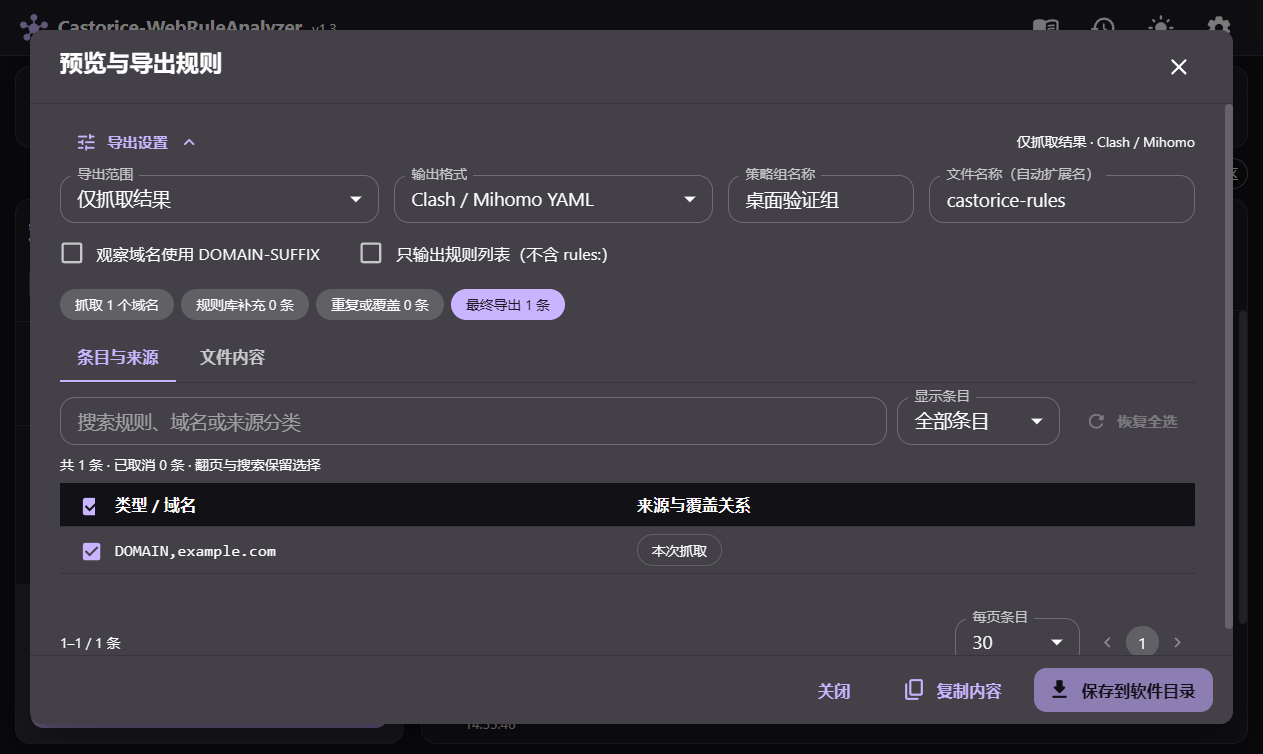
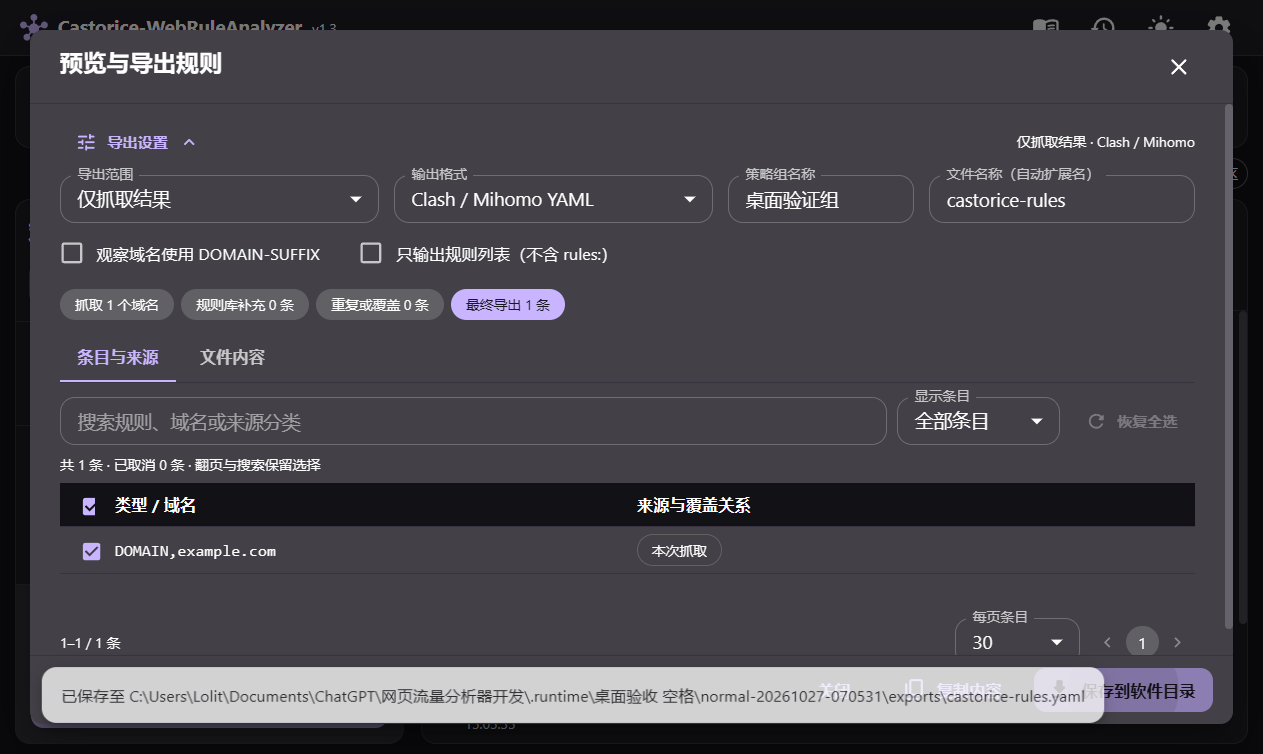
fix: reset filters in an already empty workspace

Changed region(s): [[0.0309, 0.8846, 0.8955, 0.9761]]

diff --git a/frontend/src/pages/App.tsx b/frontend/src/pages/App.tsx
@@ -19,6 +19,7 @@ export default function App() {
     const [options, setOptions] = useState(defaultSettings.scan);
     const [url, setURL] = useState('');
     const [id, setID] = useState('');
+    const [resetCount, setResetCount] = useState(0);
     const [busy, setBusy] = useState(false);
     const [initializing, setInitializing] = useState(true);
     const [canShowBrowser, setCanShowBrowser] = useState(true);
@@ -49,6 +50,7 @@ export default function App() {
     function reset() {
         if (running || busy || initializing) return;
         setID(''); setTask(undefined); setURL(''); setError(''); notify(''); setDialog('');
+        setResetCount(v => v + 1);
         setTab(0); setMobilePanel('domains'); setLibraryCategory(''); setMode('observed');
         setExcluded(new Set()); setFilter({ host: '', method: '', type: '', status: '', page: 0 });
         setOptions(canShowBrowser ? settings.scan : { ...settings.scan, mode: settings.scan.mode === 'interactive' ? 'quick' : settings.scan.mode, visible: false });
@@ -108,8 +110,8 @@ export default function App() {
       {connection && <Alert severity="warning">{connection}</Alert>}
       <Stack direction="row" className="workspace-toolbar" sx={{ gap: .5, alignItems: 'center' }}><Box className="mobile-switch"><Button size="small" variant={mobilePanel === 'domains' ? 'contained' : 'text'} onClick={() => setMobilePanel('domains')}>域名</Button><Button size="small" variant={mobilePanel === 'analysis' ? 'contained' : 'text'} onClick={() => setMobilePanel('analysis')}>分析 / 规则命中</Button></Box><Typography variant="caption" color="text.secondary" className="privacy-note">独立浏览器 · URL 脱敏 · 本地保存</Typography><Tooltip title={running ? '先停止采集，再清空工作区' : '恢复初始页面，保留扫描历史和软件设置'}><span style={{ marginLeft: 'auto' }}><Button size="small" startIcon={<RestartAltRounded />} onClick={reset} disabled={running || busy || initializing}>清空工作区</Button></span></Tooltip><Chip size="small" className="workspace-status" label={running ? '正在采集' : '本地工作区'} variant="outlined" /></Stack>
       <Box className="workspace" data-mobile-panel={mobilePanel}>
-       <DomainPanel key={`domains:${id}`} task={task} domains={domains} excluded={excluded} toggle={host => setExcluded(old => { const value = new Set(old); if (value.has(host)) value.delete(host); else value.add(host); return value; })} mode={mode} setMode={setMode} onExport={() => setDialog('export')} onRequests={host => { setFilter({ ...filter, host, page: 0 }); setTab(1); setMobilePanel('analysis'); }} notify={notify} />
-       <AnalysisPanel key={`analysis:${id}`} task={task} requests={requests} total={total} filter={filter} setFilter={setFilter} logs={logs} tab={tab} setTab={setTab} logLevel={settings.log_level} notify={notify} matchContent={<MatchPanel task={task} onRematch={() => void rematch()} onLibrary={openLibrary} busy={busy} />} />
+       <DomainPanel key={`domains:${id}:${resetCount}`} task={task} domains={domains} excluded={excluded} toggle={host => setExcluded(old => { const value = new Set(old); if (value.has(host)) value.delete(host); else value.add(host); return value; })} mode={mode} setMode={setMode} onExport={() => setDialog('export')} onRequests={host => { setFilter({ ...filter, host, page: 0 }); setTab(1); setMobilePanel('analysis'); }} notify={notify} />
+       <AnalysisPanel key={`analysis:${id}:${resetCount}`} task={task} requests={requests} total={total} filter={filter} setFilter={setFilter} logs={logs} tab={tab} setTab={setTab} logLevel={settings.log_level} notify={notify} matchContent={<MatchPanel task={task} onRematch={() => void rematch()} onLibrary={openLibrary} busy={busy} />} />
       </Box>
      </Box>
      {dialog === 'settings' && <SettingsDialog canShowBrowser={canShowBrowser} settings={settings} onSave={save} onClose={() => setDialog('')} onLibrary={() => openLibrary()} notify={notify} />}

diff --git a/frontend/src/pages/App.test.tsx b/frontend/src/pages/App.test.tsx
@@ -63,4 +63,13 @@ describe('清空工作区', () => {
   render(<App />); await screen.findByRole('button', { name: '停止采集' });
   expect(screen.getByRole('button', { name: '清空工作区' })).toBeDisabled();
  });
+ it('已经处于空工作区时再次清空，也会重置新输入的面板搜索', async () => {
+  localStorage.setItem('castorice.lastScan', '');
+  render(<App />);
+  await waitFor(() => expect(screen.getByRole('button', { name: '清空工作区' })).toBeEnabled());
+  fireEvent.change(screen.getByRole('textbox', { name: '搜索域名' }), { target: { value: 'temporary' } });
+  fireEvent.click(screen.getByRole('button', { name: '清空工作区' }));
+  expect(screen.getByRole('textbox', { name: '搜索域名' })).toHaveValue('');
+  expect(screen.getByText('等待首次发现')).toBeInTheDocument();
+ });
 });

diff --git a/docs/TEST-REPORT.md b/docs/TEST-REPORT.md
@@ -13,7 +13,7 @@
 
 ## 代码与真实运行
 
-- 前端 16 项回归通过；TypeScript 与生产构建通过。覆盖顺序下载互斥、分页选择、完整文件、错误/迟到响应、空工作区刷新和历史恢复。
+- 前端 17 项回归通过；TypeScript 与生产构建通过。覆盖顺序下载互斥、分页选择、完整文件、错误/迟到响应、空工作区刷新和历史恢复。
 - Windows Go 全包测试及 go vet 通过，开启真实 Chrome、在线规则源及 DNS 验证；API 大型排除清单仍执行有界、单 JSON 对象校验；后缀边界、最宽覆盖及取消恢复通过。
 - Windows 11 便携成品：中文/空格目录下真实 example.com 扫描为 1 个域名、2 条请求、主文档 200；Clash、Provider、sing-box 三种格式通过。原生 WebView2 实际保存文件、清空及刷新通过。正常关闭、采集中关闭、强制结束监督进程均检查所属进程归零与监听关闭；重新启动验证 service_interrupted、旧 Profile 清理及再次扫描导出。
 - Debian 13 amd64：在实际 Wayland 会话运行 Chromium 156，真实捕获/探索、取消、超时、导航失败、私网重定向及 Profile 清理通过；Windows 专用异常退出模拟明确跳过。最终原生二进制公网采集和三格式导出通过。
